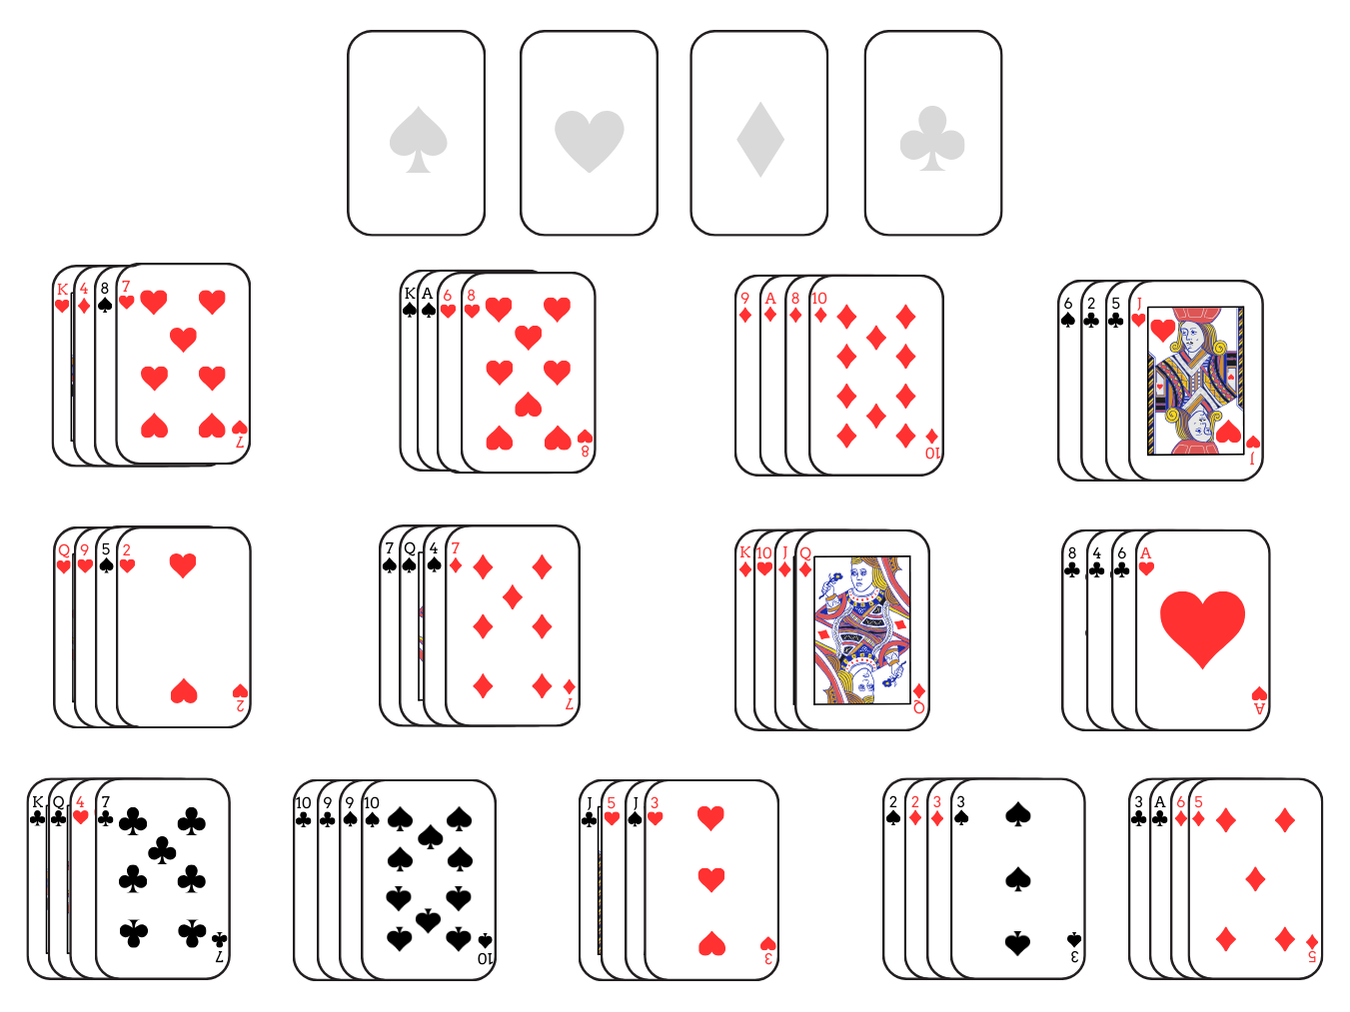
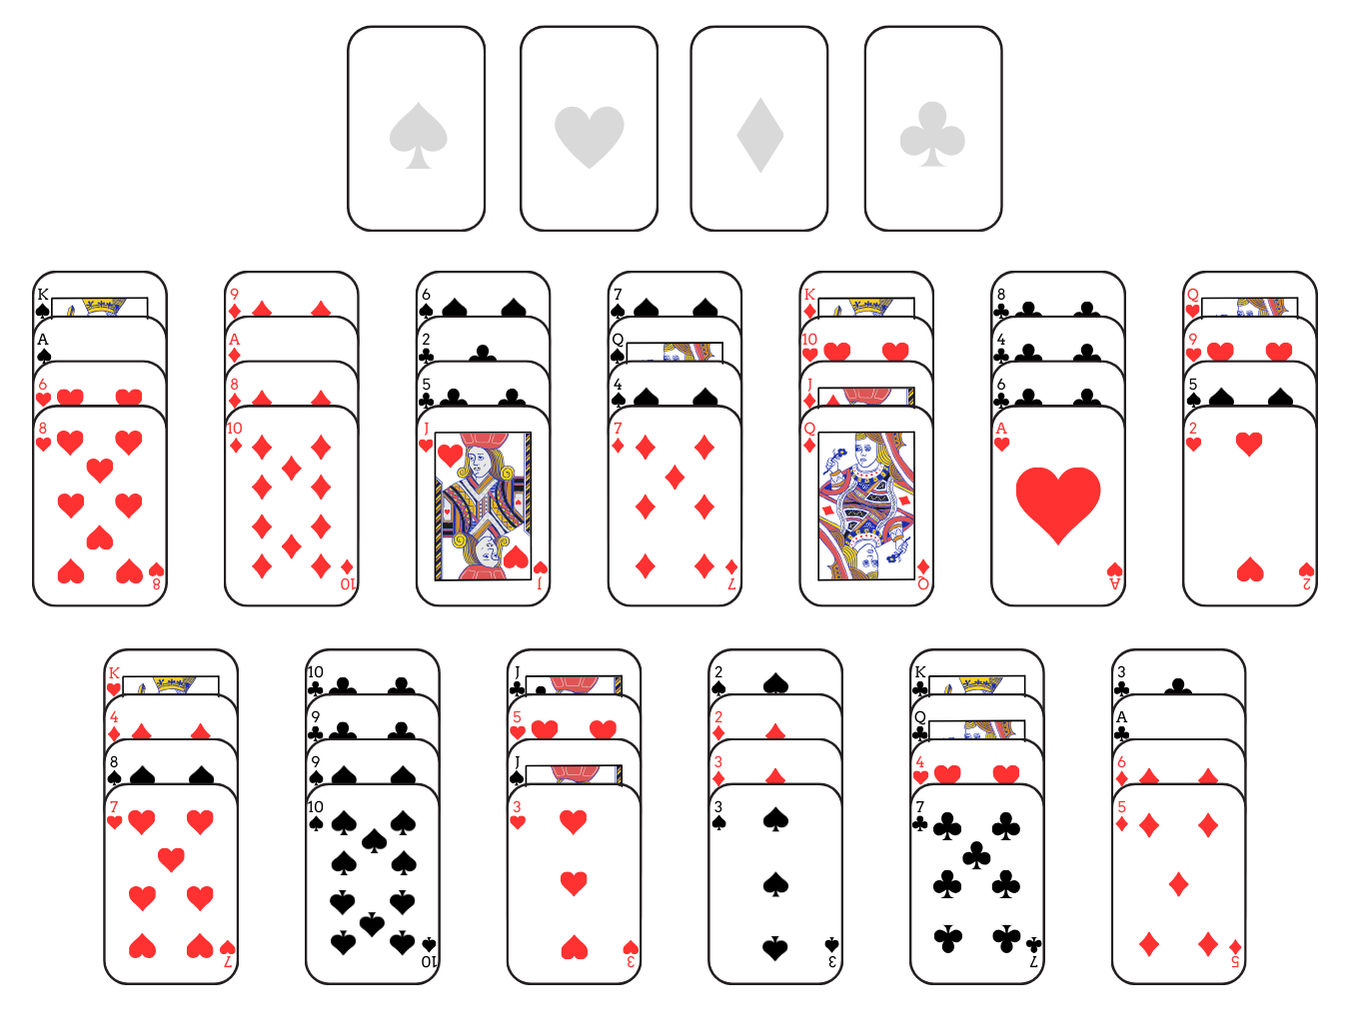
updated bakers dozen rules and setup picture

diff --git a/how-to-play/bakers-dozen-solitaire.html b/how-to-play/bakers-dozen-solitaire.html
@@ -57,7 +57,7 @@
         <p>The objective of Baker's Dozen is to move all cards onto the foundation piles.</p>
 
         <h3>Setup</h3> 
-        <p>Deal 13 tableau piles of four cards each, splayed outwards so that all cards in a pile are visible. Move all kings to
+        <p>Deal 13 tableau piles of four cards each, splayed downwards so that all cards in a pile are visible. Move all kings to
         the bottom of their respective piles.</p>
    
         <figure>
@@ -69,19 +69,19 @@
   
         <h3>Game Play</h3> 
         <p>You may only move one card at a time. Only the top card of each tableau pile is available for play, either onto another
-        tableau pile or onto a foundation pile. Tableau piles may be built down in sequence, regardless of suit. For example,
-        there are three 7s available for play, any of these 7s could be moved onto the 8 of hearts. When a tableau pile becomes
-        empty, it may not be filled.
+        tableau pile or onto a foundation pile. Tableau piles may be built in descending order, regardless of suit. For example,
+        there are three 7s available for play, any one of these 7s could be moved onto the 8 of hearts. When a tableau pile
+        becomes empty, it may not be filled.
         <br><br>
         There are four foundation piles, one for each suit. Once an ace is available for play, move it above the tableau to form
         a foundation pile. For example, move the ace of hearts above the tableau to form an ace foundation pile. Foundation
-        piles are built up in sequence to the king, and by suit. To add a card to a foundation pile, it must be one rank higher
+        piles are built in ascending order to the king, in suit. To add a card to a foundation pile, it must be one rank higher
         and of the same suit as the top card of the foundation pile it is being moved to. Following the previous example, move
-        the 2 of hearts onto the ace of hearts. The next card that can be played onto the hearts foundation pile would be the
-        three of hearts, and so on until the king of hearts is reached.</p>
+        the 2 of hearts onto the ace of hearts. The next card that can be played onto the hearts foundation pile would be the 3
+        of hearts, and so on until the king of hearts is reached.</p>
   
         <h3>To Win</h3> 
-        <p>If all cards are played onto the foundation piles, Baker's Dozen is won. If there are no more available moves, and the
+        <p>Baker's Dozen is won if all cards are played onto the foundation piles. If there are no more available moves, and the
         foundation piles are incomplete, the game is lost.</p>
 
                 <!-- <h3>Similar Games</h3>
